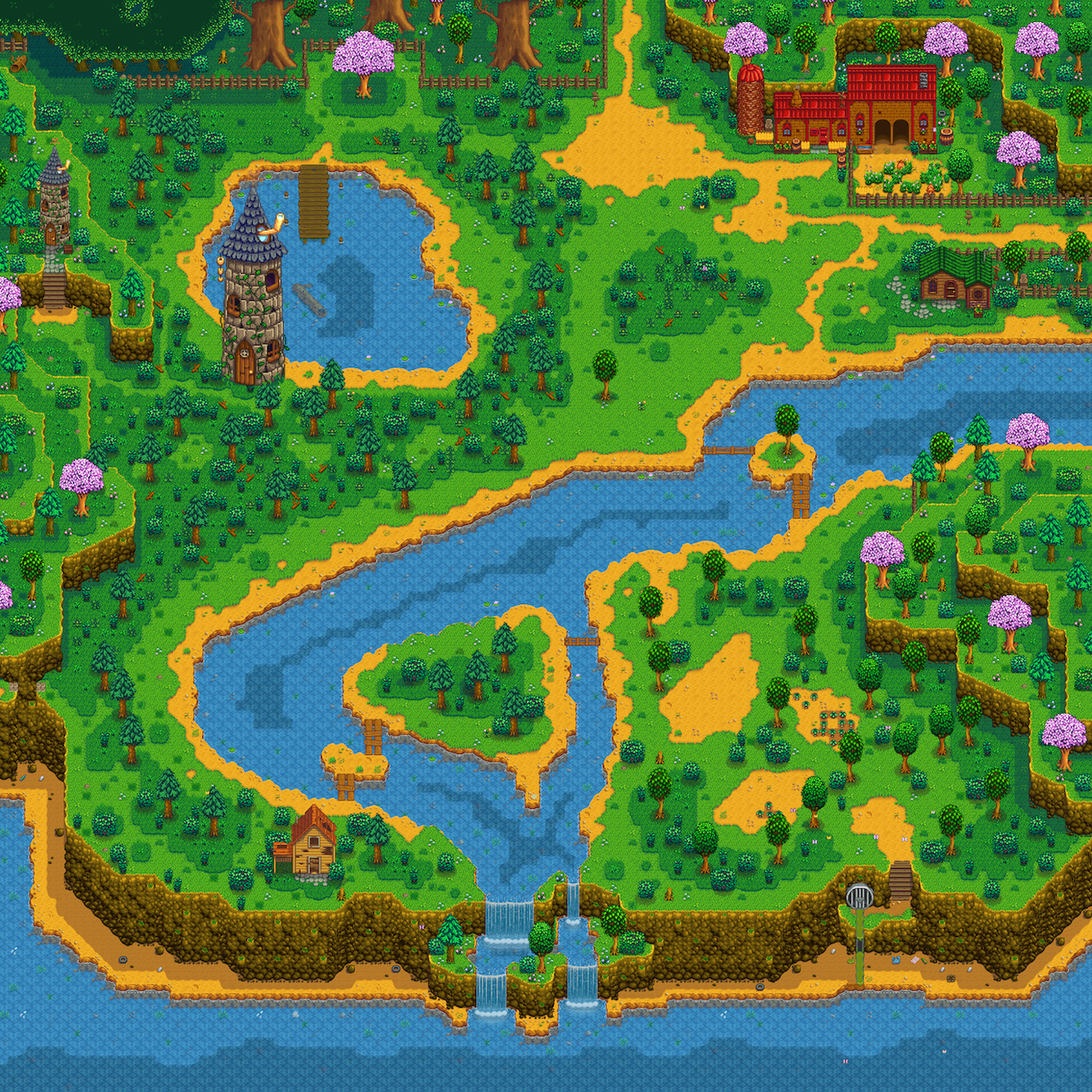
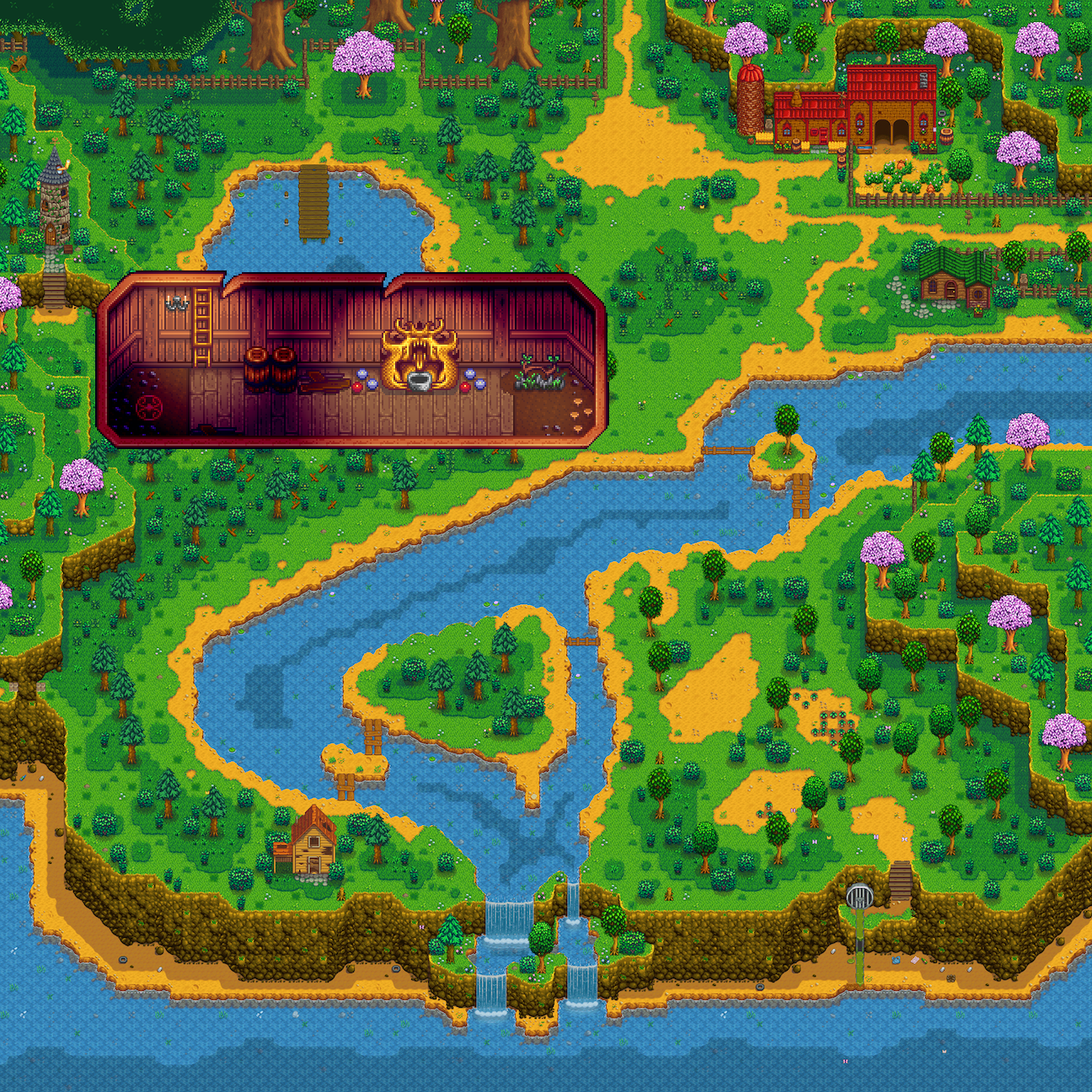
more renames + wizbasepic

Changed region(s): [[0.0617, 0.1543, 0.5556, 0.4321]]

diff --git a/data/games/stardew.js b/data/games/stardew.js
@@ -14,12 +14,10 @@ let stardew = {
 	// Tracker information
     locations: {
         town: { x: 2200, y: 800, w: 1600, h: 1200, name: "Pelican Town" },
-        town_indoorsnew: { x: 3800, y: 800, w: 1000, h: 1300, name: "Town Indoors" },
-        //town_indoorsnew: { x: 4600, y: 800, w: 1000, h: 1300, name: "Town Indoorsnew" },
+        town_indoors: { x: 3800, y: 800, w: 1000, h: 1300, name: "Town Indoors" },
         farm: { x: 1100, y: 900, w: 1100, h: 700, name: "Farm" },
         mountain: { x: 2200, y: 150, w: 1500, h: 600, name: "Mountain" },
-        mountainindoorsnew: { x: 3700, y: 100, w: 1200, h: 700, name: "Mountain indoors" },
-        //mountainindoorsnew: { x: 1500, y: 100, w: 700, h: 700, name: "Mountain indoorsnew" },
+        mountain_indoors: { x: 3700, y: 100, w: 1200, h: 700, name: "Mountain indoors" },
         beach: { x: 1900, y: 2200, w: 1515, h: 682, name: "Beach" },
         forest: { x: 900, y: 1600, w: 1000, h: 900, name: "Cindersap Forest" },
         forest_indoors: { x: 150, y: 1200, w: 800, h: 1600, name: "Cindersap Forest indoors" },
@@ -39,7 +37,7 @@ let stardew = {
             pharmacy_entry: { x: 258, y: 393, name:"Pharmacy Entry", text_offset: { x: -0.12, y: -.07 } },
             general_store_entry: { x: 318, y: 404, text_offset: { x: .04, y: +.03 } },
             saloon_entry: { x: 330, y: 510, name:"Saloon Entry" },
-            georges_entry: { x: 420, y: 458 },
+            josh_entry: { x: 420, y: 458 },
             pam_entry: { x: 535, y: 495 },
             mayors_entry: { x: 437, y: 620 },
             sewer_entry: { x: 256, y: 707, name:"Town Sewer Entry" },
@@ -68,11 +66,11 @@ let stardew = {
             harvey_exit: { x: 209, y: 296, name: "Harvey" },
             general_store_exit: { x: 318, y: 404, text_offset: { x: .04, y: +.03 }, name: "General Store"},
             general_store_tea_entry: { x: 348, y: 345, name: "General Store" },
-            general_store_tea: { x: 348, y: 284, name: "Tea Garden" },
+            general_store_tea: { x: 348, y: 284, name: "Sunroom" },
             saloon_exit: { x: 330, y: 510, name: "Saloon" },
             josh_exit: { x: 420, y: 458, name: "George and Evelyn" },
-            trailer_exit: { x: 535, y: 495, name: "Pam's Trailer" },
-            mayors_exit: { x: 437, y: 620, name: "Mayor's Manor" },
+            trailer_exit: { x: 535, y: 495, name: "Pam's Home" },
+            mayors_exit: { x: 437, y: 615, name: "Mayor's Manor", text_offset: {x:-0.03,y: -0.02} },
             lewis_basement_entry: { x: 500, y: 590, name: "Mayor's Manor?", text_offset: {x:0,y:-.11} },
             lewis_basement: { x: 500, y: 640, name: "Mayor's Maze", text_offset: {x:0,y:.06} },
             sewer_exit: { x: 24, y: 360 , name:"Sewers" },
@@ -155,27 +153,6 @@ let stardew = {
             treehouse_exit: { x: 237, y: 793, name: "Leo's House" },
             linus_exit: { x: 453, y: 797, name: "Linus' tent", text_offset: { x: .08, y: 0 } },
             mines_exit: { x: 854, y: 759, name: "The Mines" },
-            adventurers_exit: { x: 1199, y: 817, name: "Adventurers Guild" },
-            quarry_mine_exit: { x: 1637, y: 957, name: "Quarry Mines" },
-            spa_exit: { x: 196, y: 569, name: "Spa Hall" },
-            swamp_exit: { x: 1756, y: 588, name: "Swamp" },
-            swamphut_entry: { x:1753, y:250, name: "Swamp"},
-            swamphut_exit: { x: 1753, y: 184, name: "Swamphut"},
-            swamphut_to_wizard: { x: 1753, y: 112, name: "Swamphut"},
-            sebas_stairs: {x: 252, y: 1033, name: "Carpenter", text_offset: { x: .11, y: -.13 }},
-            sebas_room: {x: 321, y: 1142, name: "Sebastian", text_offset: { x: .11, y: -.13 }},
-            spa: {x: 394, y: 473,name:"Spa",  text_offset: { x: .11, y: .13 }},
-            spa_change_exit: {x: 318, y: 412, name: "Changing Room", text_offset: { x: -.04, y: 0 }},
-            spa_change_entrance: {x: 182, y: 493,name:"Spa Hall"},
-            spa_change_to_spa: {x: 506, y: 423,name:"Changing Room", text_offset: { x: .04, y: 0 }}
-        },
-
-        mountainindoorsnew: { //New entrances added for Beta branch
-            maru_exit: { x: 106, y: 1014, name: "Maru" },
-            carpenter_exit: { x: 170, y: 1081, name: "Carpenter" },
-            treehouse_exit: { x: 237, y: 793, name: "Leo's House" },
-            linus_exit: { x: 453, y: 797, name: "Linus' tent", text_offset: { x: .08, y: 0 } },
-            mines_exit: { x: 854, y: 759, name: "The Mines" },
             advent_guild_exit: { x: 1199, y: 817, name: "Guild" },
             quarry_mine_exit: { x: 1637, y: 957, name: "Quarry Mines" },
             spa_exit: { x: 275, y: 420, name: "Spa Hall", text_offset: { x: -.07, y: 0 } },
@@ -183,17 +160,17 @@ let stardew = {
             swamphut_entry: { x:1753, y:250, name: "Swamp"},
             swamphut_exit: { x: 1753, y: 184, name: "Swamphut"},
             swamphut_to_wizard: { x: 1753, y: 112, name: "Swamphut"},
-            sebas_stairs: {x: 252, y: 1033, name: "Carpenter", text_offset: { x: .11, y: -.13 }},
-            sebas_room: {x: 321, y: 1142, name: "Sebastian", text_offset: { x: .11, y: -.13 }},
+            sebastian_stairs: {x: 252, y: 1033, name: "Carpenter", text_offset: { x: .11, y: -.13 }},
+            sebastian_room: {x: 321, y: 1142, name: "Sebastian", text_offset: { x: .11, y: -.13 }},
 
             spa_female: {x: 498, y: 510,name:"Spa Pool", text_offset: { x: 0, y: +.17 }},
             spa_male: {x: 1080, y: 510,name:"Spa Pool"},
-            change_gent_exit: {x: 860, y: 510, name: "Mens Locker Room", text_offset: { x: 0, y: .17 }},
+            change_gent_exit: {x: 860, y: 510, name: "Mens Lockers", text_offset: { x: 0, y: .17 }},
             spa_male_entry: {x: 350, y: 300,name:"Spa Hall", text_offset: { x: 0, y: -.17 }},
-            change_gent_to_spa: {x: 1080, y: 423,name:"Mens Locker Room"},
-            change_female_exit: {x: 720, y: 510, name: "Womens Locker Room"},
-            spa_female_entry: {x: 200, y: 300,name:"Spa Hall"},
-            change_female_to_spa: {x: 498, y: 423,name:"Womens Locker Room"}
+            change_gent_to_spa: {x: 1080, y: 423,name:"Mens Lockers"},
+            change_female_exit: {x: 720, y: 510, name: "Womens Lockers"},
+            spa_female_entry: {x: 200, y: 300,name:"Spa Hall", text_offset: { x: 0, y: 0.03 }},
+            change_female_to_spa: {x: 498, y: 423,name:"Womens Lockers"}
         },
 
         beach: {
@@ -201,7 +178,7 @@ let stardew = {
             fishshop_entrance: { x: 713, y: 766 },
             elliot_exit: { x: 1172, y: 152, name: "Elliot" },
             fishshop_exit: { x: 713, y: 702, name: "Fishshop" },
-            fishshop_boat: { x: 783, y: 662, name: "Fishshop Backdoor", text_offset:{x:0,y:-0.03} },
+            fishshop_boat: { x: 783, y: 662, name: "Fishshop Backdoor", text_offset:{x:0,y:-0.05} },
             //8.xER
             //beach_town
             //beach_short_forest
@@ -227,9 +204,9 @@ let stardew = {
 
         forest_indoors: {
             wizard_exit: { x: 51, y: 265, name: "Wizard" },
-            wizard_basement_entrance: { x: 330, y: 446, name: "Wizard Basement Entry" },
-            wizard_basement_exit: { x: 397, y: 508, name: "Wizard Basement" },
-            wizard_swamp: { x: 295, y: 548, name: "Basement to Swamp", text_offset:{x:0,y:0.03} },
+            wizard_basement_entrance: { x: 230, y: 265, name: "Wizard Basement Entry", text_offset: { x: 0.06, y: 0 } },
+            wizard_basement_exit: { x: 230, y: 380, name: "Wizard Basement" },
+            wizard_swamp: { x: 170, y: 490, name: "Basement to Swamp" },
             marnie_exit: { x: 956, y: 149, name: "Marnie"},
             leah_exit: { x: 1114, y: 326, name: "Leah" },
             mastery_exit: { x: 1082, y: 754, name: "Masteries" },
@@ -245,12 +222,12 @@ let stardew = {
             farmhouse_island_entrance: { x: 750, y: 401,name:"Island Farm" },
             island_cave_entrance: { x: 946, y: 347,name:"Island Farm" },
             ship_entrance: { x: 621, y: 907 },
-            puzzle_entrance: { x: 591, y: 108 },
+            crystal_entrance: { x: 591, y: 108 },
             walnut_room_entrance: { x: 194, y: 226,name: "Walnut Door" },
             farmhouse_island_exit: { x: 750, y: 341,name: "Island Farmhouse" },
             island_cave_exit: { x: 946, y: 261,name:"Island Farmcave" },
             ship_exit: { x: 619, y: 842,name:"Shipwreck" },
-            puzzle_exit: { x: 591, y: 23,name:"Simon Says"},
+            crystal_exit: { x: 591, y: 23,name:"Simon Says"},
             walnut_room_exit: { x: 194, y: 151,name:"Qi's room"}
             //8.xER
             //isle_west_south
@@ -266,7 +243,7 @@ let stardew = {
             fieldoffice_entry: { x: 426, y: 422 },
             volcano_entry: { x: 374, y: 195 },
             fieldoffice_exit: { x: 424, y: 354, name: "Snail Field Office" },
-            island_north_cave1_exit: { x: 201, y: 354, name: "Island North Cave" },
+            snail_cave_exit: { x: 201, y: 354, name: "Island North Cave" },
             volcano_exit: { x: 377, y: 110, name: "Volcano" },
             volcano_exit_river: { x: 114, y: 196, name: "Volcano River" },
             volcano_secret_beach: { x: 107, y: 273, name: "Volcano Beach" },
@@ -326,7 +303,7 @@ let stardew = {
     // if null, then we don't do tracking
     // if undefined, then we don't draw the mark
     marks: [
-        [["unknown", 0], ["corridor", 0], ["dead_end", null]]
+        [["unknown", 0], ["corridor", 0], ["dead_end", null], ["ginger", 0]]
     ],
     progress: [
 
